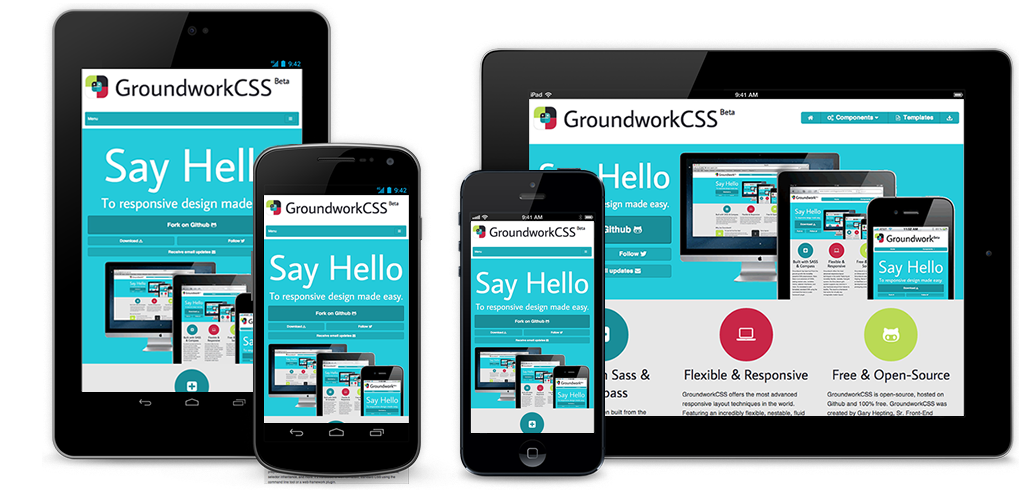
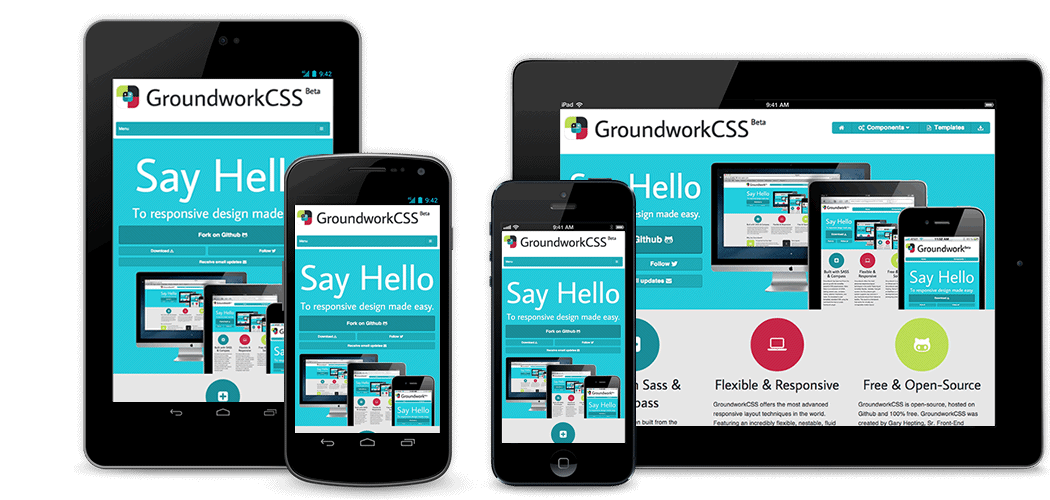
updated homepage image, remapped groundwork submodule, added pinterest validation meta tag

diff --git a/home.html b/home.html
@@ -73,6 +73,8 @@
       ]
     });
   </script>
+  <!-- pinterest verification -->
+  <meta name="p:domain_verify" content="47156eba6b92b7cf295b82e6621ab2be"/>
 </head>
 <body>
   <header class="white band padded">
@@ -130,10 +132,10 @@
             });
           </script> -->
           <div class="row">
-            <div class="three small-tablet sevenths gap-top pad-right no-padding-mobile">
+            <div class="four small-tablet sevenths gap-top pad-right no-padding-mobile">
               <a class="block button" href="https://github.com/groundworkcss/groundwork/archive/master.zip" title="Download from Github">Download <i class="icon-download-alt"></i></a>
             </div>
-            <div class="four small-tablet sevenths gap-top">
+            <div class="three small-tablet sevenths gap-top">
               <a id="twitter-button" class="block button" href="http://twitter.com/groundworkCSS/" target="_blank">Follow <i class="icon-twitter"></i></a>
               <!-- <script type="text/javascript">
                 $.getJSON("https://api.twitter.com/1/users/show.json?callback=?&screen_name=groundworkcss", function(data) {
@@ -168,12 +170,13 @@
             </div>
           </div>
         </div>
-        <div class="two thirds padded">
-          <div class="cycle-slideshow" data-cycle-center-horz="true" style="position:relative;margin-bottom:-20px;">
+        <div class="two thirds padded align-center">
+          <img src="./images/all-devices.png" alt="GroundworkCSS - A Responsive Design Framework" />
+          <!-- <div class="cycle-slideshow" data-cycle-center-horz="true" style="position:relative;margin-bottom:-20px;">
             <img src="./images/responsive-design-sample.png" alt="GroundworkCSS - A Responsive Design Framework" style="margin:0 auto;right:0;left:auto !important;" />
             <img src="./images/responsive-text.png" alt="GroundworkCSS Responsive Text Javascript Component" style="margin:0 auto;right:0;left:auto !important;"  />
             <img src="./images/responsive-modals.png" alt="GroundworkCSS Responsive Modals Javascript Component" style="margin:0 auto;right:0;left:auto !important;"  />
-          </div>
+          </div> -->
         </div>
       </div>
     </div>

diff --git a/404.html b/404.html
@@ -71,6 +71,8 @@
       ]
     });
   </script>
+  <!-- pinterest verification -->
+  <meta name="p:domain_verify" content="47156eba6b92b7cf295b82e6621ab2be"/>
 </head>
 <body>
   <header class="white band padded">

diff --git a/buttons.html b/buttons.html
@@ -71,6 +71,8 @@
       ]
     });
   </script>
+  <!-- pinterest verification -->
+  <meta name="p:domain_verify" content="47156eba6b92b7cf295b82e6621ab2be"/>
 </head>
 <body>
   <header class="white band padded">

diff --git a/components.html b/components.html
@@ -71,6 +71,8 @@
       ]
     });
   </script>
+  <!-- pinterest verification -->
+  <meta name="p:domain_verify" content="47156eba6b92b7cf295b82e6621ab2be"/>
 </head>
 <body>
   <header class="white band padded">

diff --git a/cycle2-js.html b/cycle2-js.html
@@ -71,6 +71,8 @@
       ]
     });
   </script>
+  <!-- pinterest verification -->
+  <meta name="p:domain_verify" content="47156eba6b92b7cf295b82e6621ab2be"/>
 </head>
 <body>
   <header class="white band padded">

diff --git a/forms.html b/forms.html
@@ -71,6 +71,8 @@
       ]
     });
   </script>
+  <!-- pinterest verification -->
+  <meta name="p:domain_verify" content="47156eba6b92b7cf295b82e6621ab2be"/>
 </head>
 <body>
   <header class="white band padded">

diff --git a/grid.html b/grid.html
@@ -71,6 +71,8 @@
       ]
     });
   </script>
+  <!-- pinterest verification -->
+  <meta name="p:domain_verify" content="47156eba6b92b7cf295b82e6621ab2be"/>
 </head>
 <body>
   <header class="white band padded">

diff --git a/helpers.html b/helpers.html
@@ -71,6 +71,8 @@
       ]
     });
   </script>
+  <!-- pinterest verification -->
+  <meta name="p:domain_verify" content="47156eba6b92b7cf295b82e6621ab2be"/>
 </head>
 <body>
   <header class="white band padded">

diff --git a/icons.html b/icons.html
@@ -71,6 +71,8 @@
       ]
     });
   </script>
+  <!-- pinterest verification -->
+  <meta name="p:domain_verify" content="47156eba6b92b7cf295b82e6621ab2be"/>
 </head>
 <body>
   <header class="white band padded">

diff --git a/layout-1.html b/layout-1.html
@@ -71,6 +71,8 @@
       ]
     });
   </script>
+  <!-- pinterest verification -->
+  <meta name="p:domain_verify" content="47156eba6b92b7cf295b82e6621ab2be"/>
 </head>
 <body>
   <header class="white band padded">

diff --git a/layout-2.html b/layout-2.html
@@ -71,6 +71,8 @@
       ]
     });
   </script>
+  <!-- pinterest verification -->
+  <meta name="p:domain_verify" content="47156eba6b92b7cf295b82e6621ab2be"/>
 </head>
 <body>
   <header class="white band padded">

diff --git a/layout-3.html b/layout-3.html
@@ -71,6 +71,8 @@
       ]
     });
   </script>
+  <!-- pinterest verification -->
+  <meta name="p:domain_verify" content="47156eba6b92b7cf295b82e6621ab2be"/>
 </head>
 <body>
   <header class="white band padded">
